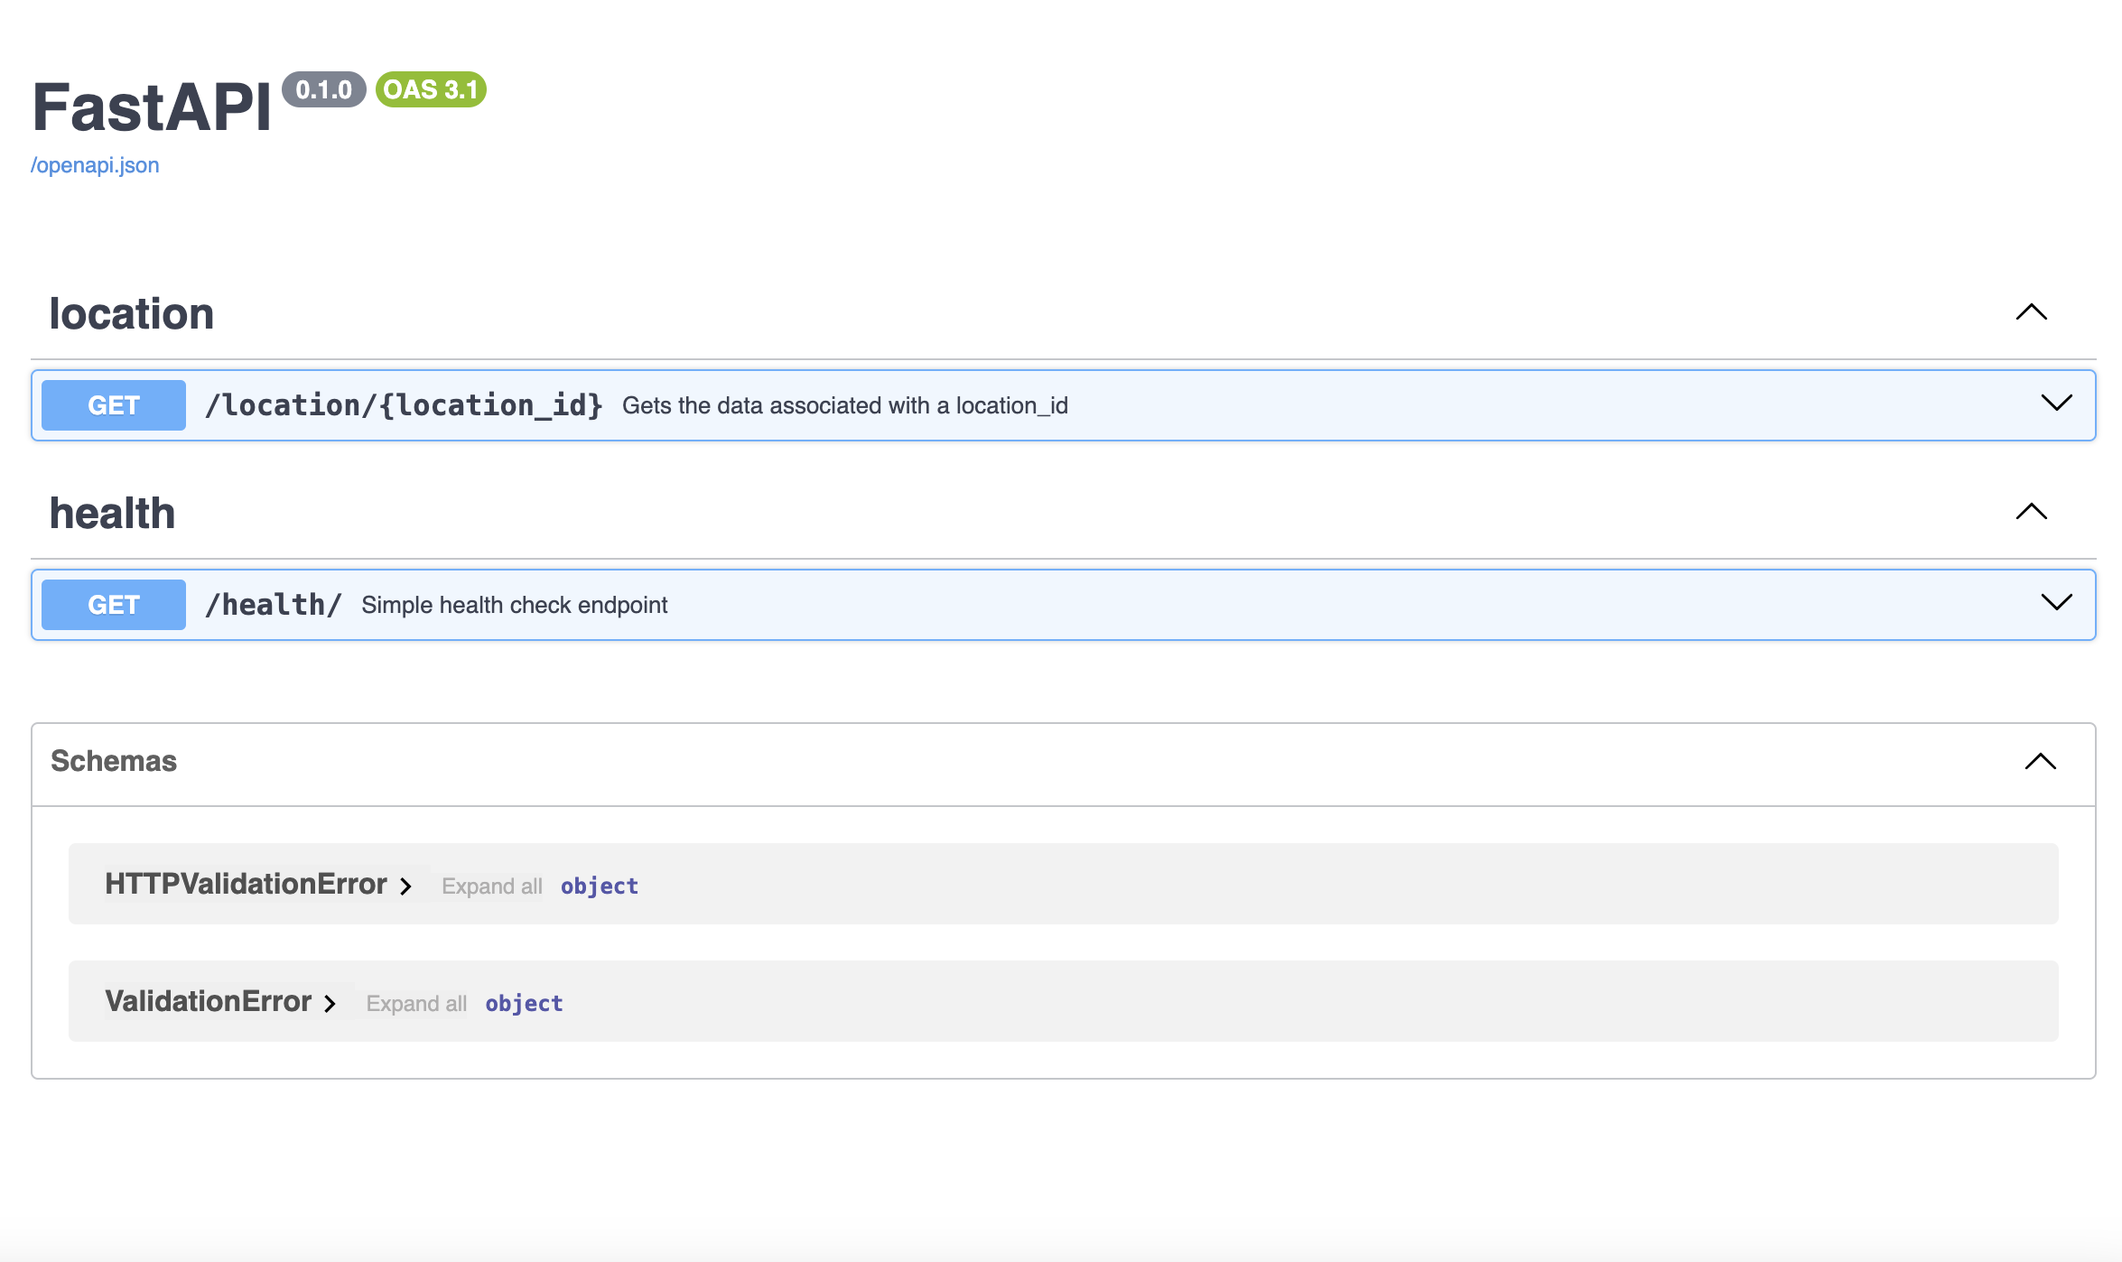
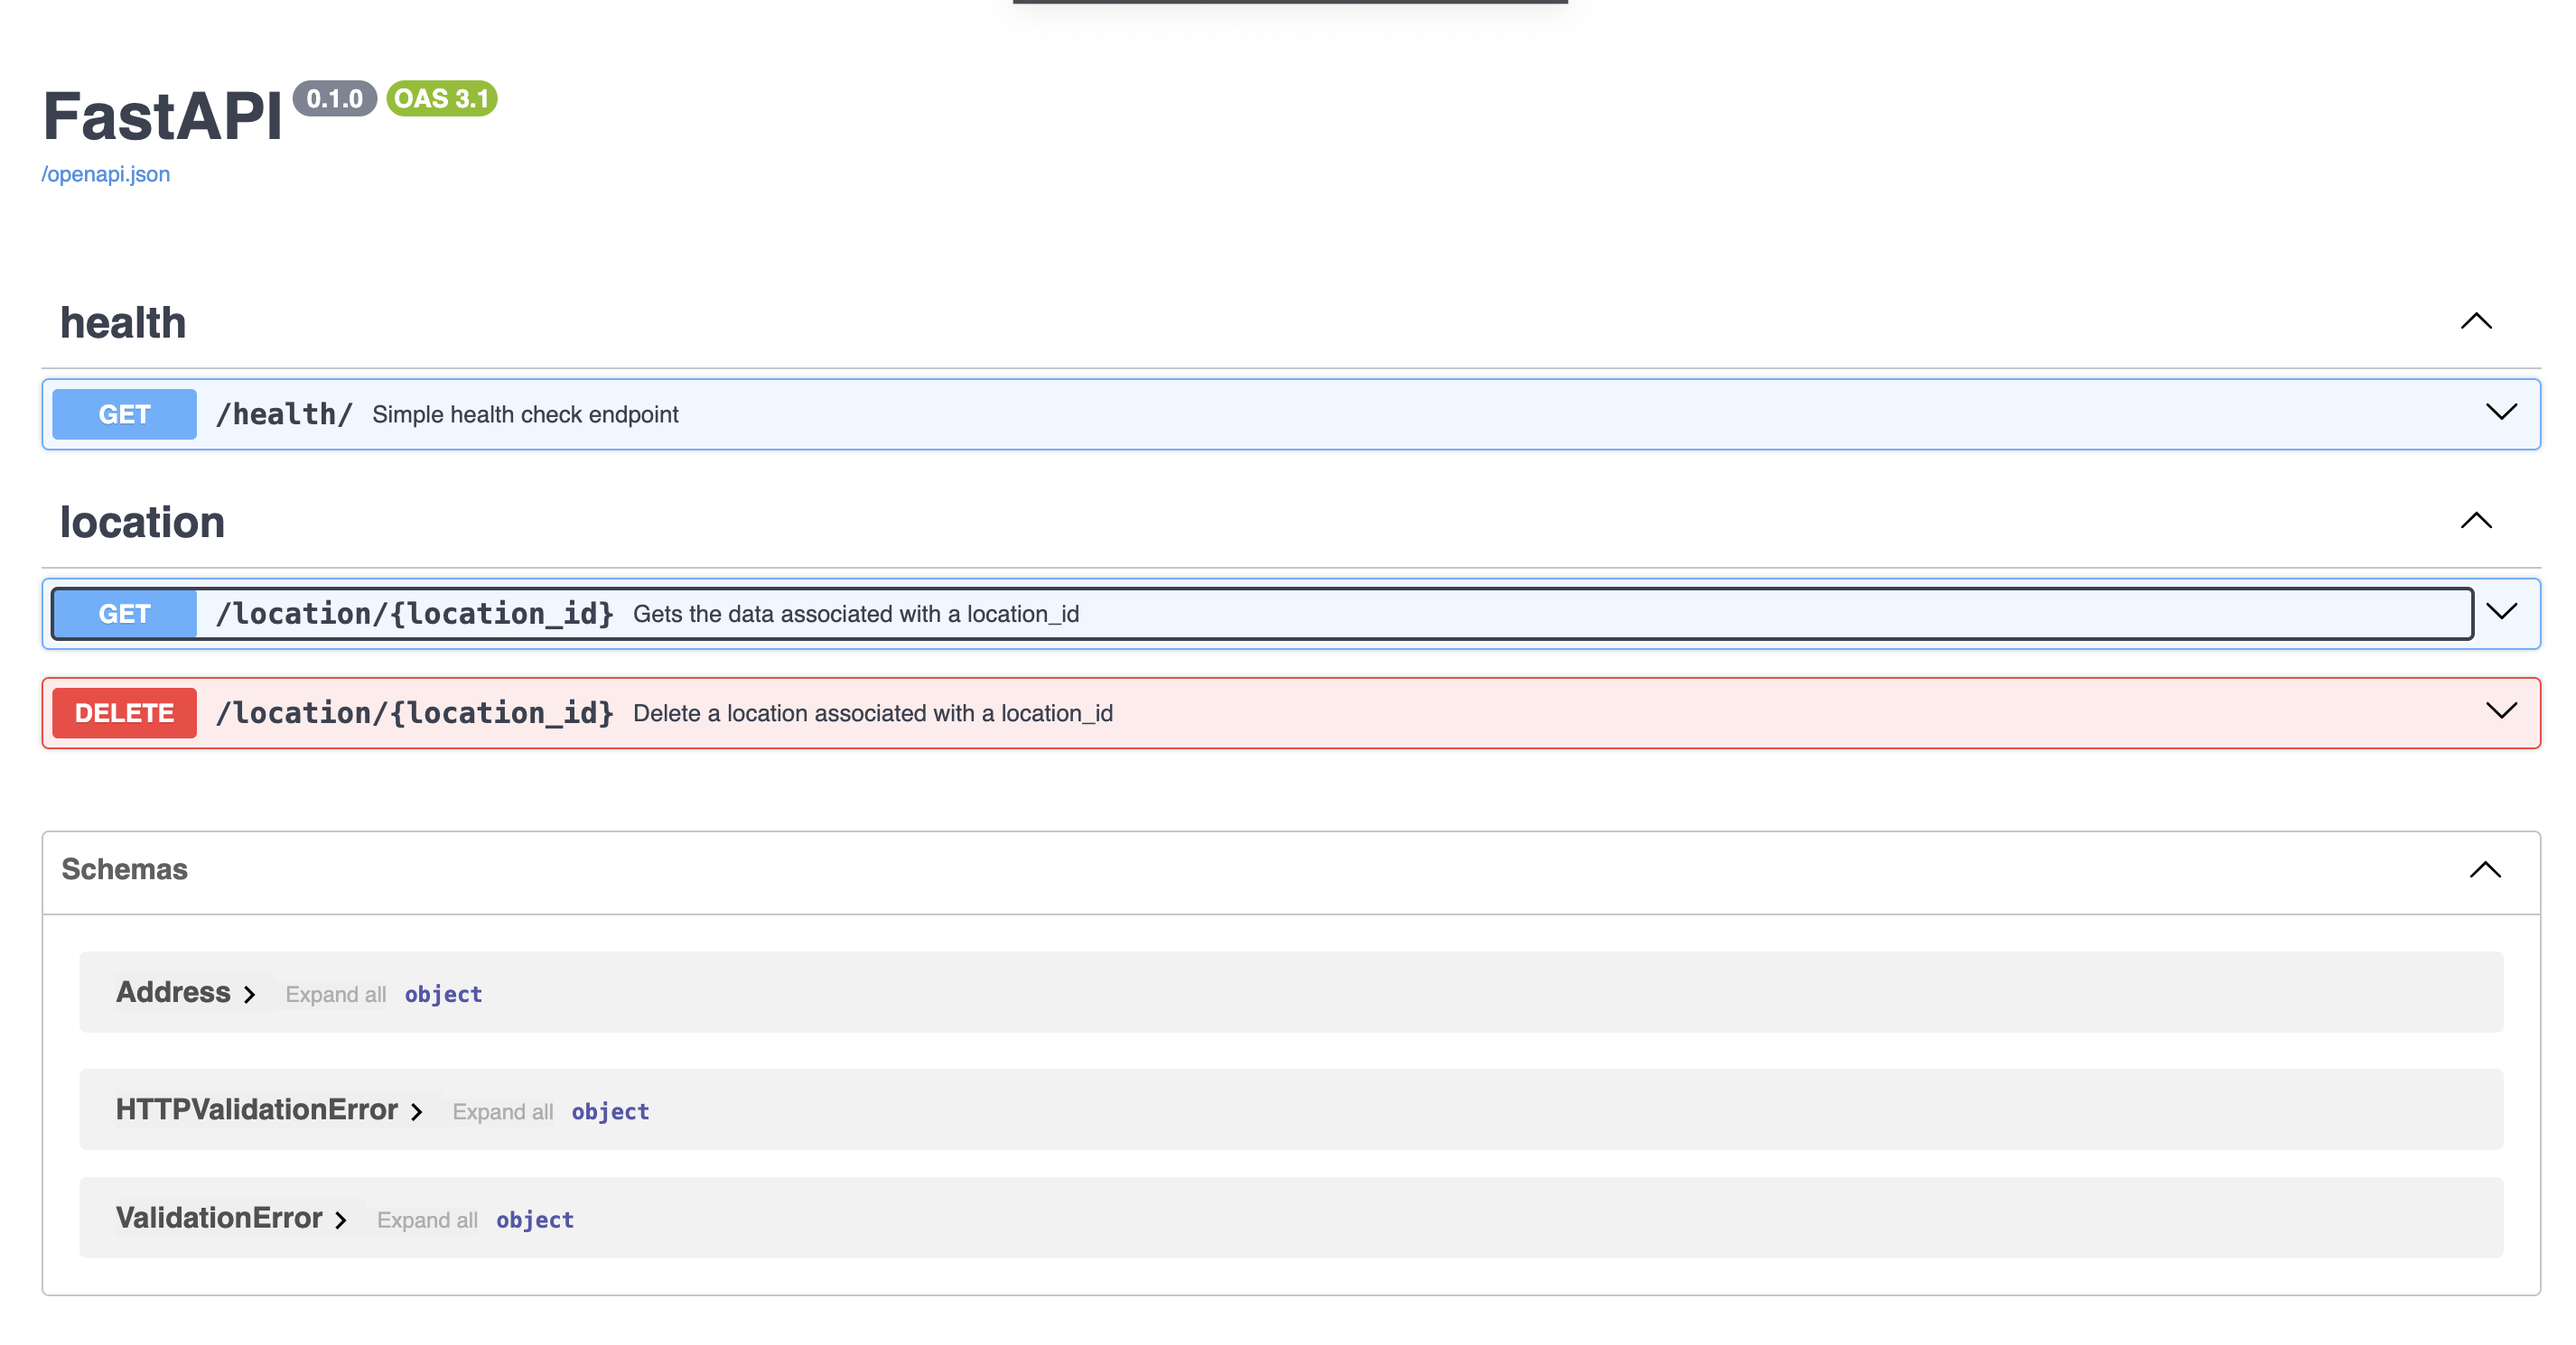
Fixing bug and adding global context

diff --git a/location/main.py b/location/main.py
@@ -1,36 +1,9 @@
 from fastapi import FastAPI
-from app.router import location_router, health_router
-from app.controller import location_controller
-from app.util.redis_manager import RedisManager
-from app.util.google_maps_manager import GoogleMapsManager
-from app.util.database import Db
-from app.store import location_store
-import datetime
-import logging
+from app.global_context import routers
 
 app = FastAPI()
 
-logging.basicConfig(level=logging.INFO, filemode='w', format=f'{datetime.datetime.now().strftime("%Y-%m-%d %H:%M:%S")} - %(levelname)s - %(message)s')
-
-# Postgres Connection (TODO make environmental variable)
-db_connection = Db()
-
-# Redis
-redis_manager = RedisManager(host="redis", port=6379)
-
-# Google Maps
-google_maps_manager = GoogleMapsManager()
-
-# Store
-location_store = location_store.LocationStore(db_connection)
-
-# Controllers
-location_controller = location_controller.LocationController(redis_manager, location_store)
-
-# Routers
-health_router = health_router.HealthRouter()
-location_router = location_router.LocationRouter(location_controller)
-
 # Adding Routes
-app.include_router(location_router.router)
-app.include_router(health_router.router)
+for router in routers:
+    app.include_router(router)
+    app.include_router(router)

diff --git a/location/app/global_context.py b/location/app/global_context.py
@@ -1,0 +1,31 @@
+from app.controller import location_controller
+from app.util.redis_manager import RedisManager
+from app.util.google_maps_manager import GoogleMapsManager
+from app.router import location_router, health_router
+from app.util.database import Db
+from app.store import location_store
+import datetime
+import logging
+
+logging.basicConfig(level=logging.INFO, filemode='w', format=f'{datetime.datetime.now().strftime("%Y-%m-%d %H:%M:%S")} - %(levelname)s - %(message)s')
+
+# Postgres Connection (TODO make environmental variable)
+db_connection = Db()
+
+# Redis
+redis_manager = RedisManager(host="redis", port=6379)
+
+# Google Maps
+google_maps_manager = GoogleMapsManager()
+
+# Store
+location_store = location_store.LocationStore(db_connection)
+
+# Controllers
+location_controller = location_controller.LocationController(redis_manager, location_store)
+
+# Routers
+health_router = health_router.HealthRouter()
+location_router = location_router.LocationRouter(location_controller)
+
+routers = [health_router.router, location_router.router]

diff --git a/location/app/router/location_router.py b/location/app/router/location_router.py
@@ -27,10 +27,10 @@ class LocationRouter:
         )
 
     async def get_location_by_id(self, location_id) -> Address:
-        return self.location_controller.get_location_by_id(location_id)
+        return await self.location_controller.get_location_by_id(location_id)
 
     async def delete_location_by_id(self, location_id) -> bool:
-        rows_update = self.location_controller.delete_location_by_id(location_id)
+        rows_update = await self.location_controller.delete_location_by_id(location_id)
         if rows_update == 1:
             return True
         else:
